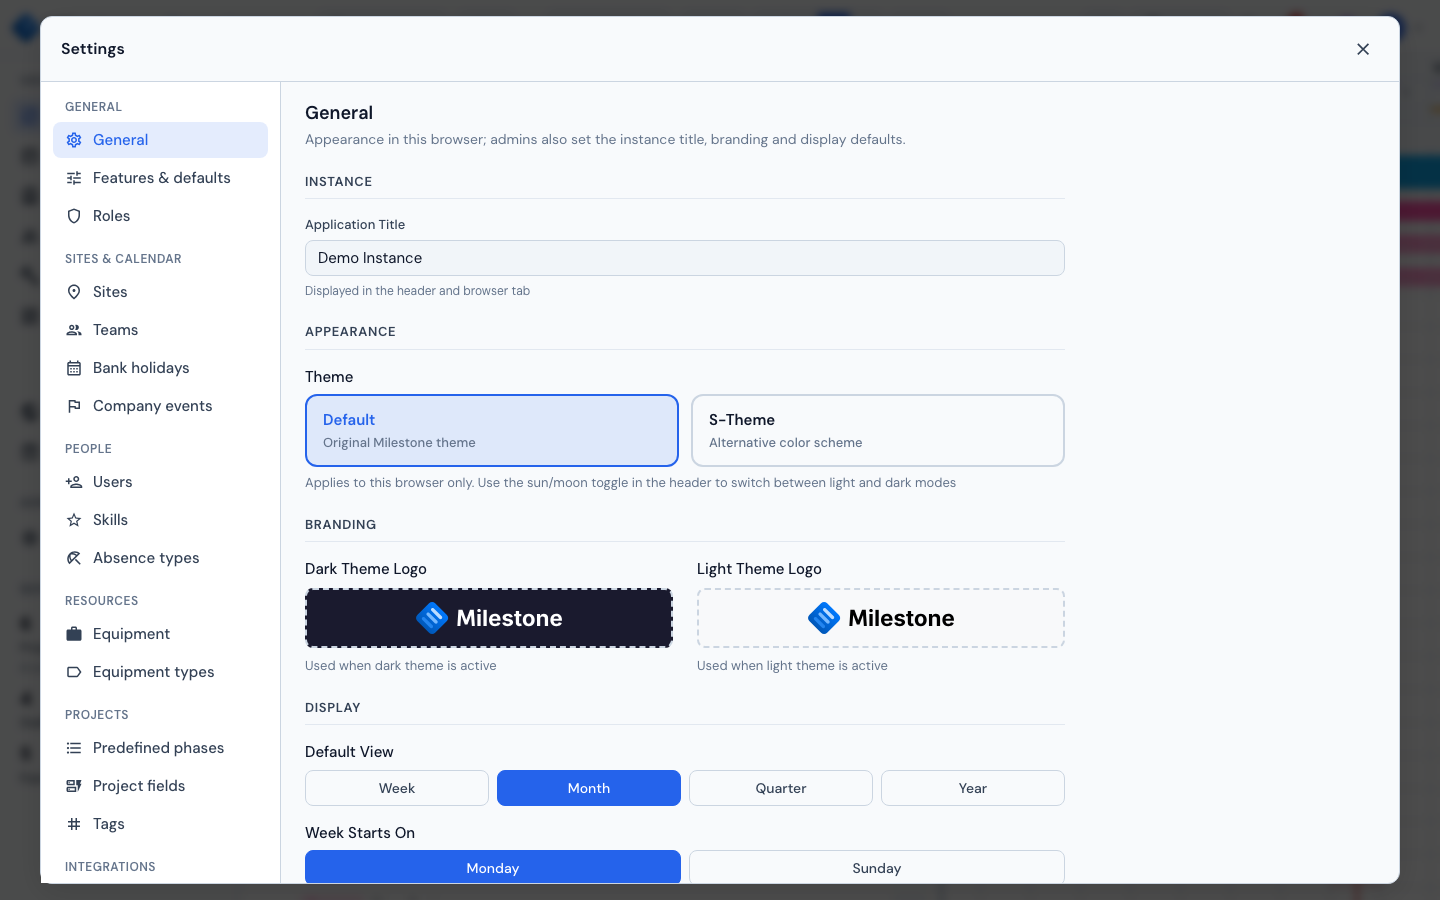
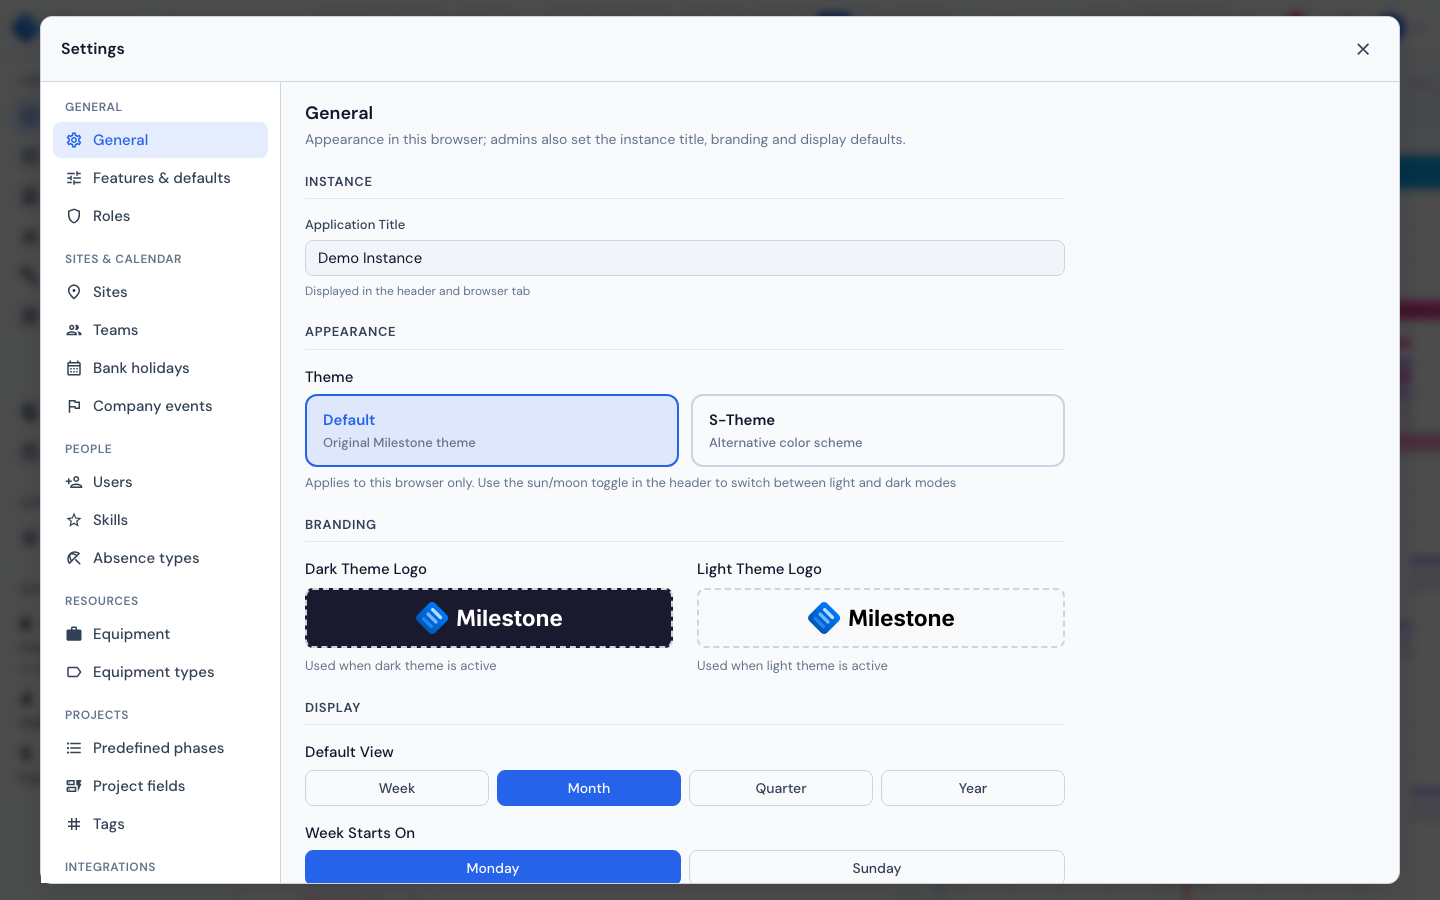
Capture the weekend settings and the month heatmap for the docs
The 2.5.0 docs describe two things no screenshot showed: the two weekend
switches in Settings → General and the Staff overview at month zoom with
weekends hidden (merged allocation blocks, the band before each Monday).
Two capture.py targets add them (staff-heatmap-month sets show_weekends
to false through the API for the shot and restores it; it runs in a fresh
context because it collapses the persisted sidebar), embedded in
staff-management.md and settings.md. gantt-main and settings-modal are
refreshed from the same throwaway stack (seeded on a weekday).

The user guide also gains the two points it lacked: the week separator
when weekends are hidden (gantt-charts.md) and the "Weekend" status of a
staff row plus the Home Office split of merged blocks
(staff-management.md).

trail check --base origin/main reports five keyword matches, none of
which brings back a ruled-out approach:
- metrics.py:31 "expand every day": the docstring says counting stays
  arithmetic, never a walk over the days (unchanged).
- metrics.py:40 "project_weeks 5 → 7": only with Weekends are working
  days on; off, the divisor stays 5 (the feature itself).
- eventLanes.ts:26 "strip week month": cellHasHit keeps span cells'
  events; only the holiday line is day-cell-only, as before.
- test_metrics.py:2834 "site team capacity": the test builds a person's
  capacity; the project side is untouched.
- test_metrics_loader.py:961: not a demo-data assertion.

Changed region(s): [[0.9688, 0.2178, 1.0, 0.3733], [0.9688, 0.4667, 1.0, 0.4978], [0.9688, 0.4044, 1.0, 0.4356]]

diff --git a/scripts/screenshots/capture.py b/scripts/screenshots/capture.py
@@ -25,7 +25,7 @@ import json
 import os
 import re
 import sys
-from datetime import UTC, datetime, timedelta
+from datetime import UTC, date, datetime, timedelta
 from pathlib import Path
 
 from playwright.sync_api import BrowserContext, Page, sync_playwright
@@ -1214,6 +1214,102 @@ def shot_settings_general_retention(context: BrowserContext) -> None:
     page.close()
 
 
+def _set_setting(page: Page, key: str, value: str | None) -> None:
+    """Write one instance setting through the API (None deletes the row, so
+    the default applies again)."""
+    resp = page.request.put(f"{URL}api/settings/{key}", data={"value": value})
+    if not resp.ok:
+        raise RuntimeError(f"PUT /api/settings/{key} answered {resp.status}")
+
+
+def _year_end_shutdown_start() -> date:
+    """First day of the seeded Year-end shutdown closure (app/scripts/demo_data.py:
+    24 December of this year, or of next year once that has passed)."""
+    today = date.today()
+    start = date(today.year, 12, 24)
+    return start if start >= today else date(today.year + 1, 12, 24)
+
+
+def shot_staff_heatmap_month(context: BrowserContext) -> None:
+    """The Gantt with the Staff & Calendar panel open at month zoom and
+    weekends hidden (show_weekends set to false through the API for the shot,
+    restored afterwards): consecutive days with the same allocation form one
+    block, a wider band marks the start of each week, and the seeded Year-end
+    shutdown closure is in view. Fresh context: the collapsed sidebar is a
+    persisted preference and must not leak into the other shots; the panel
+    sizes are dragged (component state, not persisted)."""
+    fresh = context.browser.new_context(
+        viewport={"width": 1440, "height": 900}, locale="en-US"
+    )
+    page = fresh.new_page()
+    login(page)
+    stored = page.request.get(f"{URL}api/settings").json().get("show_weekends")
+    _set_setting(page, "show_weekends", "false")
+    try:
+        page.reload()
+        page.wait_for_load_state("networkidle")
+        page.wait_for_timeout(1500)
+        go_to_gantt(page)
+        set_color_by(page, "Project type")
+        page.get_by_role("button", name="Collapse sidebar").click()
+        page.locator('header').get_by_role('button', name='Month view', exact=True).click()
+        page.wait_for_timeout(400)
+        click_today(page)
+        open_panel(page, "Staff & Calendar")
+        # Narrow the project panel to its minimum and raise the Staff panel to
+        # its maximum height, so the timeline shows about four weeks of all
+        # four people.
+        box = page.locator('[class*="_resizer_"]').first.bounding_box()
+        page.mouse.move(box["x"] + box["width"] / 2, box["y"] + 200)
+        page.mouse.down()
+        page.mouse.move(box["x"] - 200, box["y"] + 200, steps=5)
+        page.mouse.up()
+        box = page.locator('[class*="horizontalResizer"]').first.bounding_box()
+        page.mouse.move(box["x"] + 600, box["y"] + box["height"] / 2)
+        page.mouse.down()
+        page.mouse.move(box["x"] + 600, box["y"] - 400, steps=5)
+        page.mouse.up()
+        page.wait_for_timeout(500)
+        # Start the view ten days before the closure: merged blocks before it,
+        # the closure, the blocks after New Year.
+        target = (_year_end_shutdown_start() - timedelta(days=10)).isoformat()
+        page.evaluate(
+            """(t) => {
+              const cell = [...document.querySelectorAll('[data-date]')]
+                .filter(e => e.getAttribute('data-date') >= t)
+                .sort((a, b) => a.getAttribute('data-date').localeCompare(b.getAttribute('data-date')))[0];
+              const sc = document.querySelector('[class*="horizontalScroll"]');
+              sc.scrollLeft = cell.getBoundingClientRect().left - sc.getBoundingClientRect().left + sc.scrollLeft;
+            }""",
+            target,
+        )
+        page.wait_for_timeout(1000)
+        page.screenshot(path=str(OUT / "staff-heatmap-month.png"))
+        log("[done] staff-heatmap-month.png")
+    finally:
+        _set_setting(page, "show_weekends", stored)
+        fresh.close()
+
+
+def shot_settings_general_gantt(context: BrowserContext) -> None:
+    """Settings -> General scrolled to the Display and Gantt Chart blocks: Show Weekends
+    and Weekends are working days with their hints, then Auto-expand
+    Projects."""
+    page = context.new_page()
+    login(page)
+    open_settings_section(page, "General")
+    page.get_by_label("Weekends are working days").wait_for(timeout=8000)
+    # The Display block above it fits too (the pane cannot scroll the Gantt
+    # Chart heading to the top: Data management is short).
+    page.get_by_role("heading", name="Display", exact=True).evaluate(
+        "el => el.scrollIntoView({block: 'start'})"
+    )
+    page.wait_for_timeout(500)
+    page.screenshot(path=str(OUT / "settings-general-gantt.png"))
+    log("[done] settings-general-gantt.png")
+    page.close()
+
+
 def shot_dark_theme(context: BrowserContext) -> None:
     """Gantt in the dark theme. Fresh context so the shared (light) context
     is untouched; must run last anyway to keep run order deterministic."""
@@ -1302,6 +1398,8 @@ TARGETS = {
     "settings-audit-log": shot_settings_audit_log,
     "settings-audit-log-entry": shot_settings_audit_log_entry,
     "settings-general-retention": shot_settings_general_retention,
+    "staff-heatmap-month": shot_staff_heatmap_month,
+    "settings-general-gantt": shot_settings_general_gantt,
     "dark-theme": shot_dark_theme,  # keep last: the only intentionally dark shot
 }
 

diff --git a/docs/user-guide/staff-management.md b/docs/user-guide/staff-management.md
@@ -11,7 +11,7 @@ The **Staff & Calendar** view is a timeline centered on people rather than proje
 
 The left panel lists every person of the site who is **bookable as a resource** — whatever their role. Administrators are not bookable by default, so they appear only once an administrator turns on **Bookable as a resource** for them in [Settings → Users](settings.md#bookable-as-a-resource); people with the switch off are not listed and cannot be booked, but keep the bookings they already have. Each person is shown with:
 
-- **Status indicator**: Green (available) or Red (overallocated)
+- **Status indicator**: Green (available) or Red (overallocated); on a Saturday or Sunday the dot is grey and the row reads **Weekend** instead of its availability, unless [weekends are working days](settings.md#display-settings)
 - **Part-time badge**: Shows maximum capacity if less than 100%
 - **Role and allocation**: Job title and current total allocation percentage
 - **Drag handle**: Admins, superusers and project managers can drag staff onto the Gantt timeline to create assignments; everyone else can drag **their own** card when their role lets them book themselves (see [Adding Yourself to a Project](#adding-yourself-to-a-project))
@@ -24,10 +24,12 @@ The right side shows a horizontal timeline with:
 
 - **Assignment bars** — Colored by project, stacked when overlapping; a booking still [awaiting approval](#booking-yourself-when-approval-is-required) is hatched and does not count towards the workload
 - **Absence blocks** — Drawn in the color of their [absence type](vacations.md#absence-types). Only types that count as unavailable reduce capacity; a Home Office day is shown but leaves the person available
-- **Workload indicator** — Thin bar showing total utilization level (week and month zoom). Consecutive days that read the same — the same allocation, the same absence or closure — form one block with one label; hover it for the details and its dates
+- **Workload indicator** — Thin bar showing total utilization level (week and month zoom). Consecutive days that read the same — the same allocation, the same absence or closure — form one block with one label, also across hidden weekends; a day with an absence that leaves the person available (Home Office) starts a block of its own. Hover a block for the details and its dates
 - **Site closures** — Company events marked as closures make the staff of their sites unavailable; see [below](#site-closures-in-the-workload)
 - **Event strip** — The thin strip under the day labels of the timeline header lists every bank holiday and company event of a day, as on the [Gantt chart](gantt-charts.md#holidays-and-events-on-the-timeline)
 - **Bank holidays and company events** — Expandable rows at the bottom. Admins and superusers can click an entry to edit it, or **+** to add one, in [Settings](settings.md#bank-holidays); changes appear for other users straight away
+
+![The Gantt chart with the Staff & Calendar panel at month zoom and weekends hidden: each person's equal days form one block (25%, 75%, 100%), a darker band marks the start of each week, and the Year-end shutdown closure shades the last week of December with 0% blocks](../assets/screenshots/staff-heatmap-month.png){ loading=lazy }
 
 ## Site Closures in the Workload
 

diff --git a/scripts/screenshots/README.md b/scripts/screenshots/README.md
@@ -170,6 +170,8 @@ the default General section.
 | `settings-audit-log` | `settings-audit-log.png` | Settings → General → Data management → *Open audit log*: the log, newest entries first. When the newest 12 rows cover fewer than three categories (a fresh seed holds only sign-ins), it serves a canned page of varied rows through `page.route` — nothing is written |
 | `settings-audit-log-entry` | `settings-audit-log-entry.png` | The same audit log sub-view, the *Entry detail* dialog of the newest *User updated* row with its Changes table (the same canned fallback, also used when the first page holds no `admin.user.updated` row) |
 | `settings-general-retention` | `settings-general-retention.png` | Settings → General scrolled to *Data management*: the *Audit log* row (retention hint, *Open audit log*), the retention field and its switch |
+| `staff-heatmap-month` | `staff-heatmap-month.png` | The Gantt chart with the Staff & Calendar panel at **month** zoom and weekends hidden (`show_weekends` set to `false` through the API for the shot and restored afterwards): merged allocation blocks, the band before each Monday and the seeded *Year-end shutdown* closure (the view starts ten days before it). Fresh context: it collapses the sidebar, narrows the project panel and raises the Staff panel |
+| `settings-general-gantt` | `settings-general-gantt.png` | Settings → General scrolled to *Display*: Default View, Week Starts On, then the *Gantt Chart* block with *Show Weekends* and *Weekends are working days* and their hints |
 
 Project bar colours are a per-user browser preference (*Colour by*), not
 seeded data. The `main` shot sets *Colour by* = *Project type*, and since all
@@ -191,7 +193,7 @@ rejecting that request during a capture run would remove it — re-seed first
 - **Viewport** 1440×900, light theme, `en-US` locale (pinned on the browser
   context so date formatting is host-independent) — matches existing
   screenshots.
-- **Gantt zoom** Q (Quarter) so phase bars + the today indicator fit.
+- **Gantt zoom** Q (Quarter) so phase bars + the today indicator fit — except `staff-heatmap-month`, which needs month zoom (the workload blocks are drawn at week and month zoom only).
 - **Demo data** is the canonical "Demo Company / Winterthur" tenant. Don't
   capture against another tenant — the project names and dates are referenced
   in alt text and inline copy.

diff --git a/docs/user-guide/settings.md b/docs/user-guide/settings.md
@@ -68,6 +68,8 @@ The **General** section holds the theme picker and, for roles with **Edit instan
 
 **Weekends are working days** decides one rule everywhere a day is counted: the [dashboards](dashboards.md#what-the-numbers-mean) (booked days and weeks, capacity, utilisation, equipment availability), the Staff & Calendar workload blocks and *X% available* badges, the resource panel cards and the Gantt's Shift-hover *Work days*. Off, a booking across a weekend books nothing on Saturday and Sunday (the heatmap leaves them blank, a staff card reads *Weekend* on those days) and a week has 5 working days; on, every day counts and a week has 7. Bank holidays, absences and closures still take their days off either way. It is saved with **Save Changes**, like the other General settings.
 
+![Settings → General, Display and Gantt Chart: Default View and Week Starts On, then Show Weekends (on) and Weekends are working days (off) with their hints, and Auto-expand Projects](../assets/screenshots/settings-general-gantt.png){ loading=lazy }
+
 ### Audit Log Retention
 
 **Audit log retention** (under *Data management*, below the [Audit log](#audit-log) row) sets how long [audit log](../admin-guide/audit-log.md#retention) entries are kept: a whole number of days from 0 to 3 650, default 365. The **Keep audit entries indefinitely** switch sets it to 0. Like the other General settings it is saved with **Save Changes**.

diff --git a/docs/user-guide/gantt-charts.md b/docs/user-guide/gantt-charts.md
@@ -31,6 +31,7 @@ The right side shows horizontal bars representing duration of each project, phas
 - A red vertical line marks today's date, and the current month is highlighted in the header
 - Week numbers follow **ISO 8601**: weeks start on Monday and week 1 is the week containing the first Thursday of the year, so 1–3 January 2027 show as week 53 (of 2026)
 - The timeline opens centred on today in every view, after every refresh; switching to another view and back keeps your place
+- When weekends are hidden ([Settings → General → Show Weekends](settings.md#display-settings)), a wider separator marks the start of each week at week and month zoom, in every timeline
 - Bank holidays and company events are highlighted on the background at week and month zoom; a company event marked as a [site closure](settings.md#site-closures) gets a stronger, hatched tint
 - A thin strip in the timeline header, under the day labels, names every holiday and company event of a day — see [Holidays and events on the timeline](#holidays-and-events-on-the-timeline)
 - Staff assignment bars are marked on days the person is away — an unavailable absence, or a closure of one of their sites
